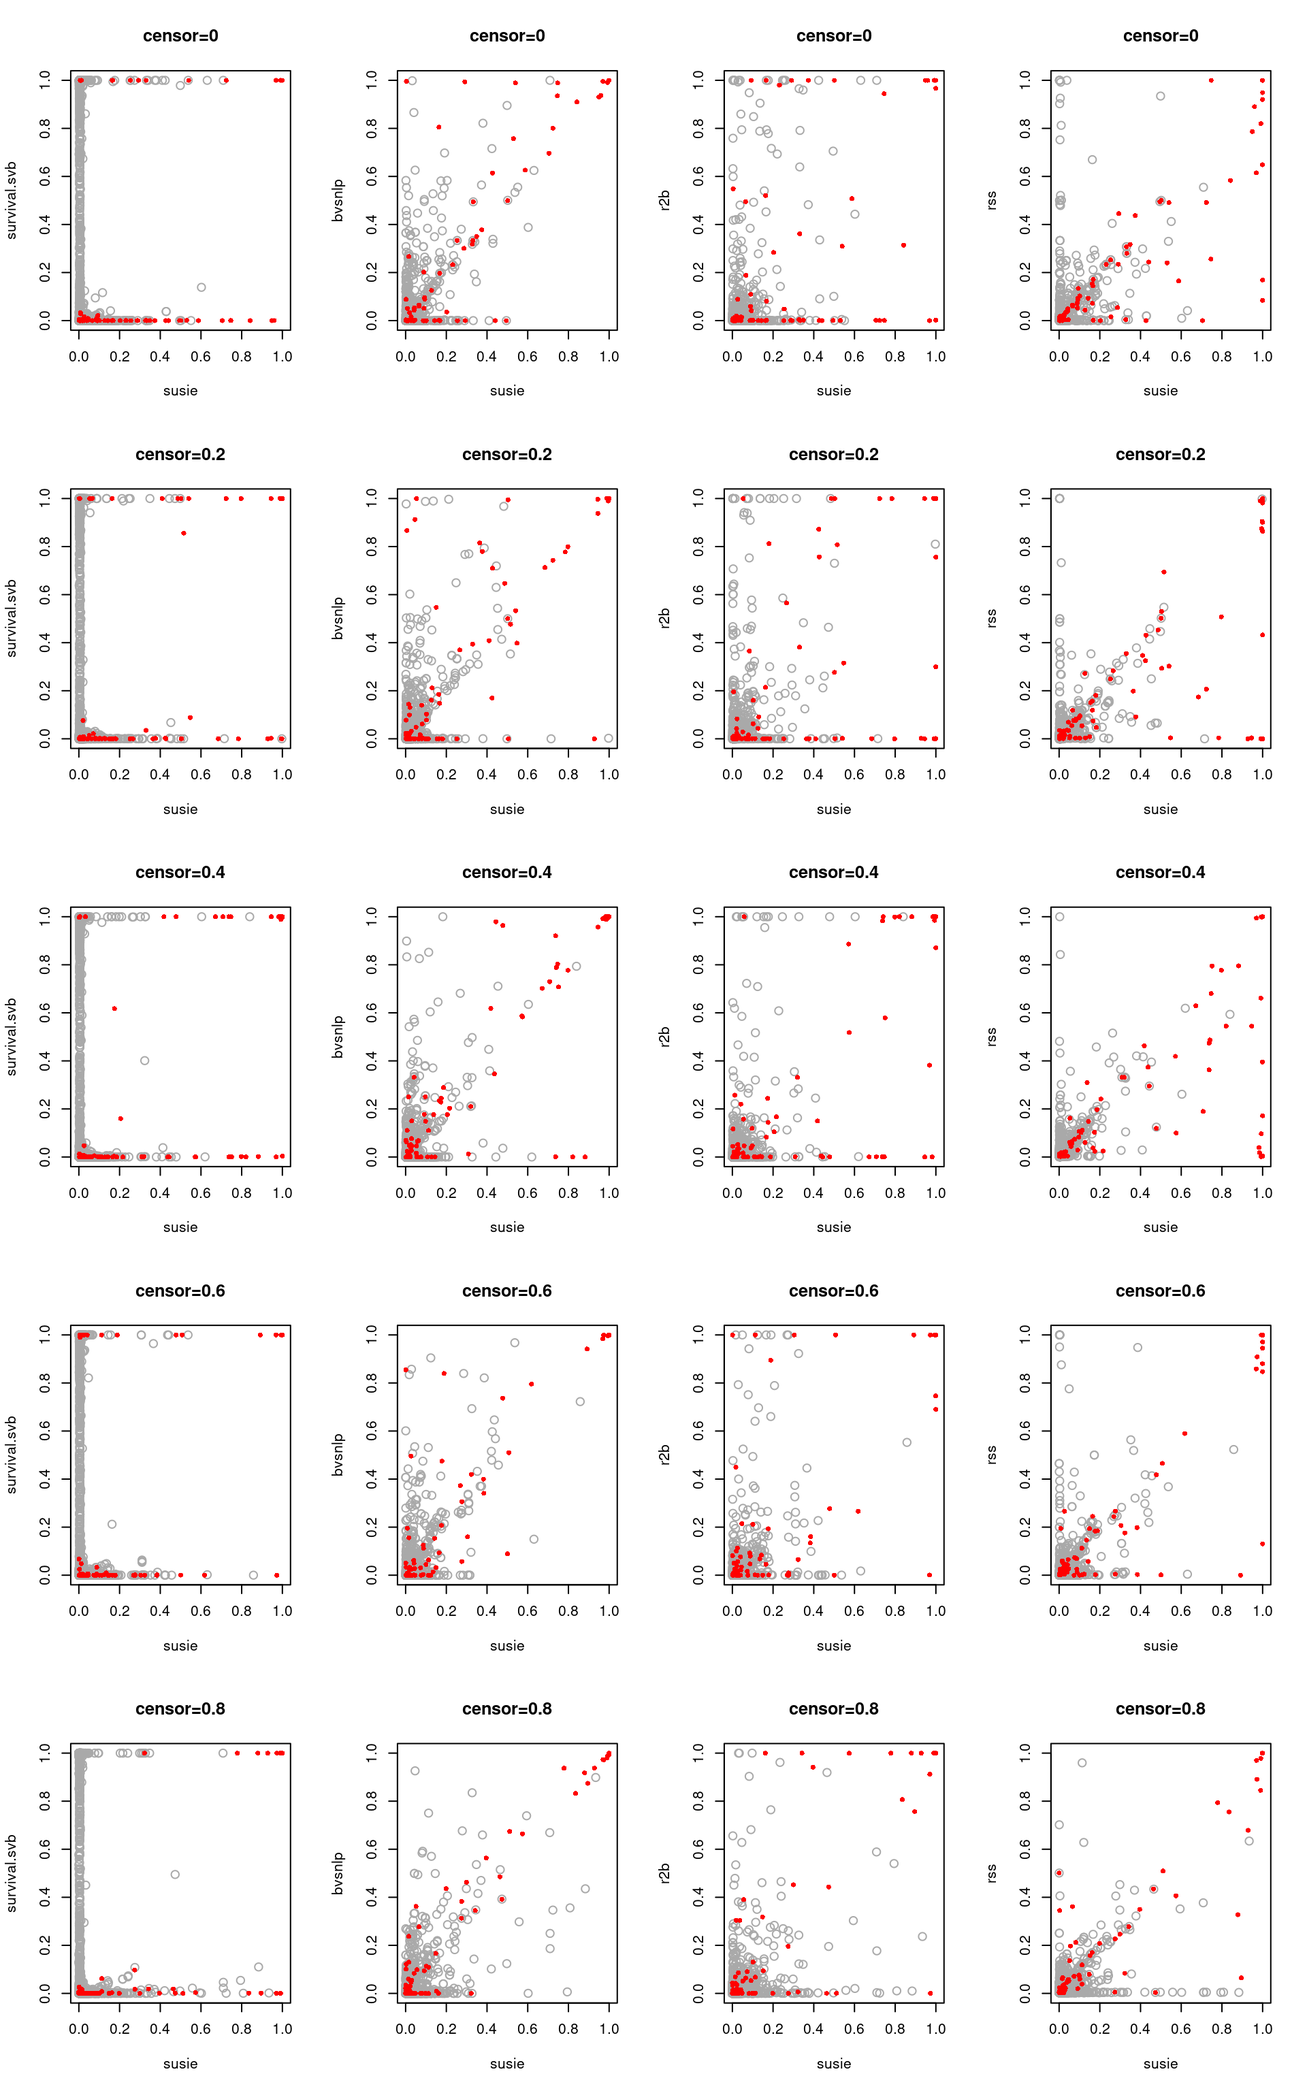
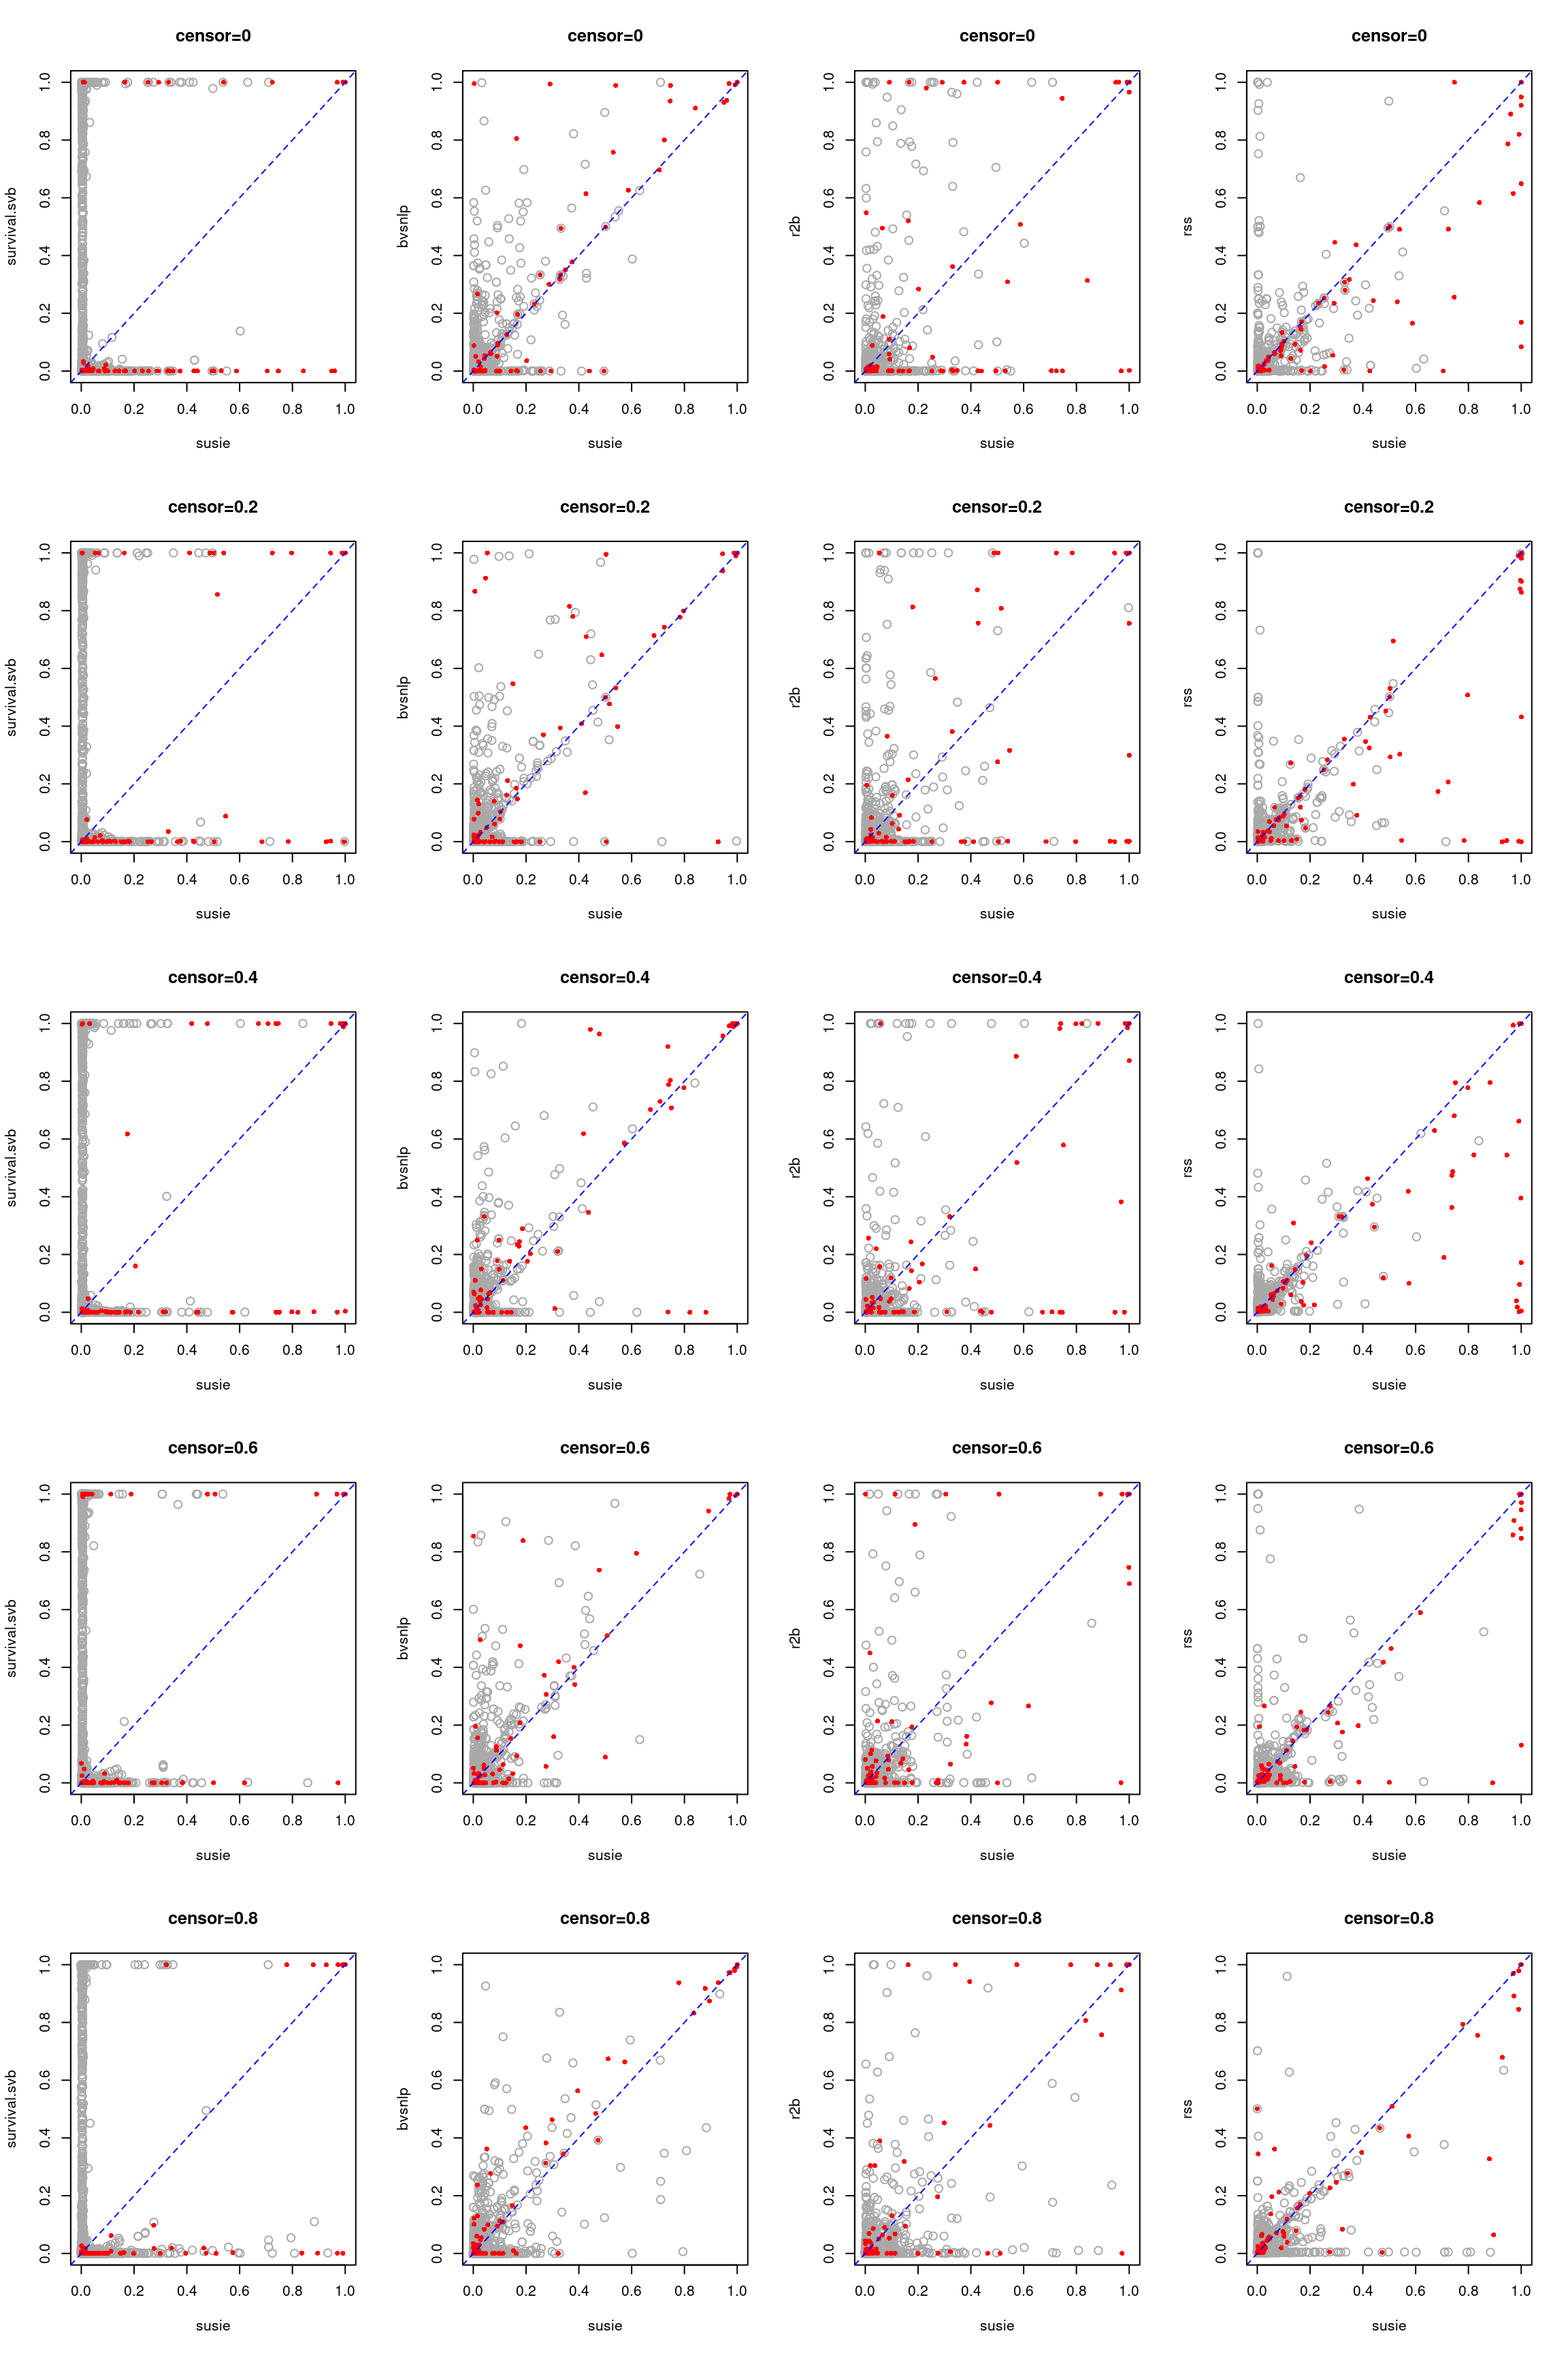
Build site.

diff --git a/docs/compare_pip_10iter.html b/docs/compare_pip_10iter.html
@@ -523,15 +523,15 @@ project makes it easier to run your code on other machines.</p>
 <div class="panel panel-default">
 <div class="panel-heading">
 <p class="panel-title">
-<a data-toggle="collapse" data-parent="#workflowr-checks" href="#strongRepositoryversionstrongahrefhttpsgithubcomyunqiyang0215survivalsusietree8941841c68bb2107bbc565dd0963217a0ea48badtargetblank8941841a">
+<a data-toggle="collapse" data-parent="#workflowr-checks" href="#strongRepositoryversionstrongahrefhttpsgithubcomyunqiyang0215survivalsusietreea36eabb95e1c6a910ab90b33b93fb8a3d7b8cba4targetblanka36eabba">
 <span class="glyphicon glyphicon-ok text-success"
 aria-hidden="true"></span> <strong>Repository version:</strong>
-<a href="https://github.com/yunqiyang0215/survival-susie/tree/8941841c68bb2107bbc565dd0963217a0ea48bad" target="_blank">8941841</a>
+<a href="https://github.com/yunqiyang0215/survival-susie/tree/a36eabb95e1c6a910ab90b33b93fb8a3d7b8cba4" target="_blank">a36eabb</a>
 </a>
 </p>
 </div>
 <div
[2 lines of base64/hex data omitted]
 class="panel-collapse collapse">
 <div class="panel-body">
 <p>
@@ -541,7 +541,7 @@ reproducibility.
 </p>
 <p>
 The results in this page were generated with repository version
-<a href="https://github.com/yunqiyang0215/survival-susie/tree/8941841c68bb2107bbc565dd0963217a0ea48bad" target="_blank">8941841</a>.
+<a href="https://github.com/yunqiyang0215/survival-susie/tree/a36eabb95e1c6a910ab90b33b93fb8a3d7b8cba4" target="_blank">a36eabb</a>.
 See the <em>Past versions</em> tab to see a history of the changes made
 to the R Markdown and HTML files.
 </p>
@@ -557,6 +557,7 @@ were generated:
 <pre><code>
 Ignored files:
     Ignored:    .Rproj.user/
+    Ignored:    analysis/figure/
 
 Unstaged changes:
     Modified:   analysis/coxph_na.Rmd
@@ -605,6 +606,40 @@ Message
 </tr>
 </thead>
 <tbody>
+<tr>
+<td>
+Rmd
+</td>
+<td>
+<a href="https://github.com/yunqiyang0215/survival-susie/blob/a36eabb95e1c6a910ab90b33b93fb8a3d7b8cba4/analysis/compare_pip_10iter.Rmd" target="_blank">a36eabb</a>
+</td>
+<td>
+yunqi yang
+</td>
+<td>
+2024-03-11
+</td>
+<td>
+wflow_publish("analysis/compare_pip_10iter.Rmd")
+</td>
+</tr>
+<tr>
+<td>
+html
+</td>
+<td>
+<a href="https://rawcdn.githack.com/yunqiyang0215/survival-susie/12387fc5d580cc40d3ccc10bd654d78aa3383ade/docs/compare_pip_10iter.html" target="_blank">12387fc</a>
+</td>
+<td>
+yunqi yang
+</td>
+<td>
+2024-03-11
+</td>
+<td>
+Build site.
+</td>
+</tr>
 <tr>
 <td>
 Rmd
@@ -787,18 +822,22 @@ for (i in 1:length(censor_lvls)){
 
   res.pip = compare_pip(pip.susie, pip.svb, is_effect)
   plot_pip(res.pip, labs = c(&quot;susie&quot;, &quot;survival.svb&quot;), main = paste0(&quot;censor=&quot;,censor_lvls[i]))
+  abline(a = 0, b = 1, lty = 2, col = &quot;blue&quot;)
   
   res.pip = compare_pip(pip.susie, pip.bvsnlp, is_effect)
   plot_pip(res.pip, labs = c(&quot;susie&quot;, &quot;bvsnlp&quot;), main = paste0(&quot;censor=&quot;,censor_lvls[i]))
+  abline(a = 0, b = 1, lty = 2, col = &quot;blue&quot;)
   
   res.pip = compare_pip(pip.susie, pip.r2b, is_effect)
   plot_pip(res.pip, labs = c(&quot;susie&quot;, &quot;r2b&quot;), main = paste0(&quot;censor=&quot;,censor_lvls[i]))
+  abline(a = 0, b = 1, lty = 2, col = &quot;blue&quot;)
   
   res.pip = compare_pip(pip.susie, pip.rss, is_effect)
   plot_pip(res.pip, labs = c(&quot;susie&quot;, &quot;rss&quot;), main = paste0(&quot;censor=&quot;,censor_lvls[i]))
+  abline(a = 0, b = 1, lty = 2, col = &quot;blue&quot;)
   
 }</code></pre>
-<p><img src="figure/compare_pip_10iter.Rmd/unnamed-chunk-4-1.png" width="960" style="display: block; margin: auto;" /></p>
+<p><img src="figure/compare_pip_10iter.Rmd/unnamed-chunk-4-1.png" width="1152" style="display: block; margin: auto;" /></p>
 <p>
 <button type="button" class="btn btn-default btn-xs btn-workflowr btn-workflowr-fig" data-toggle="collapse" data-target="#fig-unnamed-chunk-4-1">
 Past versions of unnamed-chunk-4-1.png
@@ -821,6 +860,17 @@ Date
 </tr>
 </thead>
 <tbody>
+<tr>
+<td>
+<a href="https://github.com/yunqiyang0215/survival-susie/blob/12387fc5d580cc40d3ccc10bd654d78aa3383ade/docs/figure/compare_pip_10iter.Rmd/unnamed-chunk-4-1.png" target="_blank">12387fc</a>
+</td>
+<td>
+yunqi yang
+</td>
+<td>
+2024-03-11
+</td>
+</tr>
 <tr>
 <td>
 <a href="https://github.com/yunqiyang0215/survival-susie/blob/c55fa8f89d2346ef7fa44840239394edb3c06ed3/docs/figure/compare_pip_10iter.Rmd/unnamed-chunk-4-1.png" target="_blank">c55fa8f</a>
@@ -853,18 +903,22 @@ for (i in 1:length(censor_lvls)){
 
   res.pip = compare_pip(pip.susie, pip.svb, is_effect)
   plot_pip(res.pip, labs = c(&quot;susie&quot;, &quot;survival.svb&quot;), main = paste0(&quot;censor=&quot;,censor_lvls[i]))
+  abline(a = 0, b = 1, lty = 2, col = &quot;blue&quot;)
   
   res.pip = compare_pip(pip.susie, pip.bvsnlp, is_effect)
   plot_pip(res.pip, labs = c(&quot;susie&quot;, &quot;bvsnlp&quot;), main = paste0(&quot;censor=&quot;,censor_lvls[i]))
+  abline(a = 0, b = 1, lty = 2, col = &quot;blue&quot;)
   
   res.pip = compare_pip(pip.susie, pip.r2b, is_effect)
   plot_pip(res.pip, labs = c(&quot;susie&quot;, &quot;r2b&quot;), main = paste0(&quot;censor=&quot;,censor_lvls[i]))
+  abline(a = 0, b = 1, lty = 2, col = &quot;blue&quot;)
   
   res.pip = compare_pip(pip.susie, pip.rss, is_effect)
   plot_pip(res.pip, labs = c(&quot;susie&quot;, &quot;rss&quot;), main = paste0(&quot;censor=&quot;,censor_lvls[i]))
+  abline(a = 0, b = 1, lty = 2, col = &quot;blue&quot;)
   
 }</code></pre>
-<p><img src="figure/compare_pip_10iter.Rmd/unnamed-chunk-5-1.png" width="960" style="display: block; margin: auto;" /></p>
+<p><img src="figure/compare_pip_10iter.Rmd/unnamed-chunk-5-1.png" width="1152" style="display: block; margin: auto;" /></p>
 <p>
 <button type="button" class="btn btn-default btn-xs btn-workflowr btn-workflowr-fig" data-toggle="collapse" data-target="#fig-unnamed-chunk-5-1">
 Past versions of unnamed-chunk-5-1.png
@@ -887,6 +941,17 @@ Date
 </tr>
 </thead>
 <tbody>
+<tr>
+<td>
+<a href="https://github.com/yunqiyang0215/survival-susie/blob/12387fc5d580cc40d3ccc10bd654d78aa3383ade/docs/figure/compare_pip_10iter.Rmd/unnamed-chunk-5-1.png" target="_blank">12387fc</a>
+</td>
+<td>
+yunqi yang
+</td>
+<td>
+2024-03-11
+</td>
+</tr>
 <tr>
 <td>
 <a href="https://github.com/yunqiyang0215/survival-susie/blob/c55fa8f89d2346ef7fa44840239394edb3c06ed3/docs/figure/compare_pip_10iter.Rmd/unnamed-chunk-5-1.png" target="_blank">c55fa8f</a>
